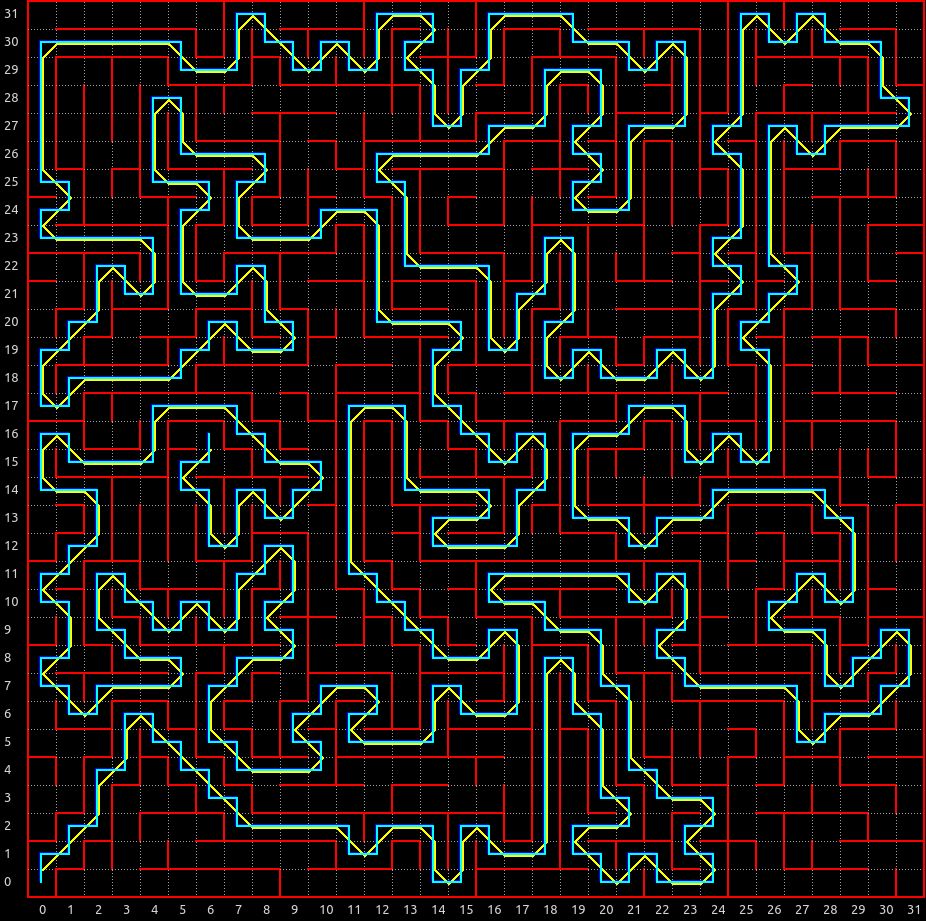
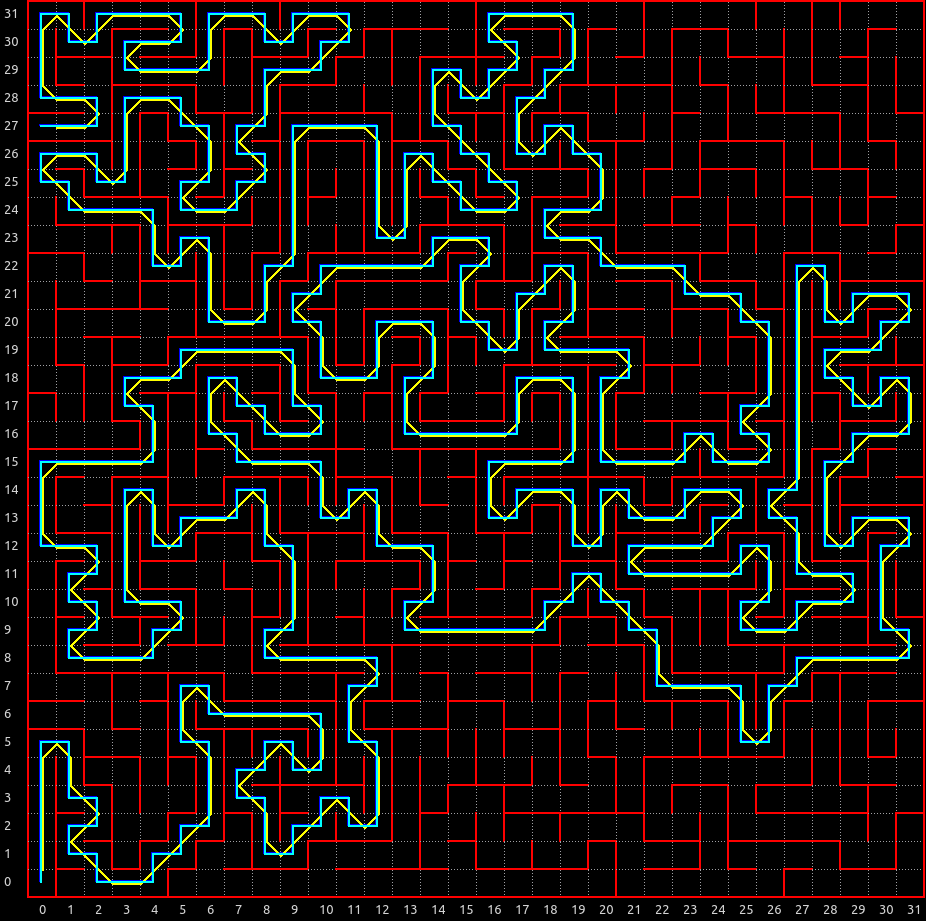
update

Changed region(s): [[0.0302, 0.0, 0.9978, 0.9729], [0.8164, 0.8817, 0.9978, 0.9729], [0.0302, 0.304, 0.0605, 0.3344]]

diff --git a/content/post/2020-03-23-maze-generator.md b/content/post/2020-03-23-maze-generator.md
@@ -14,24 +14,42 @@ draft: true
 こんにちは．けりです．
 
 マイクロマウスを作るにあたって，
-普段は迷路探索のことばかり考えていますが，
-ふと迷路づくりをやってみました．
+普段は迷路を解くことばかり考えていますが，
+ふと迷路づくりについて考えてみました．
 
-しかも，迷路を自動で生成する方法を試してみました．
+しかも，ランダムウォークによる迷路の自動生成を試してみました．
+
+果たしてマイクロマウスっぽい迷路はできるのでしょうか．
 
 <!--more-->
+
+## 迷路生成アルゴリズム
+
+実は，迷路の自動生成アルゴリズムは代表的なものがいくつか存在します．
+
+今回は以下のアルゴリズムを用いて迷路の自動生成を試しました．
+
+1. 棒倒し法
+2. 穴掘り法
+3. 穴掘り法の独自拡張
 
 ## 棒倒し法
 
 迷路上のすべての柱から無作為に棒を倒すように壁を立てる方法によって迷路を作ることができます．
 
-棒を倒すとき既に壁が有る場合は別のところに倒します．
+とても簡単なアルゴリズムですが，
+すべての柱に少なくともひとつの壁が隣接しているようなマイクロマウス規定に則った迷路が作成できます．
+
+なお，棒を倒すとき既に壁が有る場合は別のところに倒します．
 
 ### 自動生成された迷路
 
-次のような迷路が自動生成されました．
+棒倒し法によって次のような迷路が自動生成されました．
 
-斜めありなしの歩数最短(マゼンタ・青)とスラロームコストと台形加速を考慮した斜めありなしの時間最短(黄色・シアン)を表示しています．
+乱数なので，実行するたびに全く違う迷路が生成されます．
+
+何通りか生成して，
+複数のルートが現れるものを選びました．
 
 ![迷路](poll_maze_1.png)
 
@@ -39,22 +57,53 @@ draft: true
 
 ![迷路](poll_maze_3.png)
 
-### 所感
+### ゴール区画の選択
 
-あまり複雑な最短経路はできず，だいたいはほぼ直線の経路のみです．
+今回の迷路では，
+ゴール区画は
+スタート区画から行き得る最も遠い区画に設定しました．
 
-### 難点
+具体的には，スタート区画からステップマップを展開した際に一番ステップが大きくなる区画です．
 
-## 深さ優先探索ランダムウォーク
+今回は，簡単のためゴールは1マスです．
+
+### 最短経路の種類
+
+区画および壁ベースの歩数最短と，スラロームと台形加速を考慮した斜めありなしの時間最短の経路を表示しています．
+
+| 色       | アルゴリズム                                     |
+| -------- | ------------------------------------------------ |
+| 青色     | 区画ベースの歩数最短                             |
+| マゼンタ | 壁ベースの歩数最短                               |
+| 黄色     | スラロームと台形加速を考慮した時間最短(斜めあり) |
+| シアン   | スラロームと台形加速を考慮した時間最短(斜めなし) |
+
+### 迷路の考察
+
+あまり複雑な最短経路はできず，だいたい単純な最短経路のみです．
+
+また，封鎖されている区画が多く目立ちます．
+運が悪いとスタート区画付近が封鎖されて，つまらない迷路になってしまいます．
+
+このアルゴリズムではあまりいい迷路はできそうにありません．
+
+## 穴掘り法
+
+次に，深さ優先探索の考え方を用いたランダムウォークによる迷路生成アルゴリズムを試しました．
 
 予め迷路内のすべての壁を立てた状態にして，
-スタートから深さ優先探索で壁を消して進んでいく方法に寄って迷路を作成することができます．
+スタートから壁を消しながらランダムウォークで進んでいく方法です．
 
+具体的には，
 先に進む際に現在位置をスタックに保管し，
 周囲が既知区画になったらスタックを辿って未知区画に隣接したところまで戻ります．
 
 この迷路の特徴として，閉鎖空間がなくすべてが繋がった迷路となるメリットがあります．  
 つまり，迷路上のすべての区画に到達可能となります．
+
+ただし，スタートを根とした木構造になっているので，適当な2点間の経路が必ず一意になるという特徴があります．
+
+マイクロマウスでは複数のルートからマシンにあったルートを選択するところもおもしろいところなので，それができなくなってしまうのはイマイチです．
 
 ### 自動生成された迷路
 
@@ -66,7 +115,7 @@ draft: true
 
 ![迷路](dfs_maze_3.png)
 
-### 所感
+### 迷路の考察
 
 迷路全体を通るスパルタ経路ができがちです．
 
@@ -74,7 +123,7 @@ draft: true
 
 まるで中部地区大会のようですね．
 
-## 深さ優先探索ランダムウォーク
+## 深さ優先探索ランダムウォークの独自拡張
 
 ![迷路](mydfs_maze_1.png)
 
@@ -93,3 +142,8 @@ draft: true
 今まで競技で出てきた経路は十分短い経路であったことがわかります．
 
 今後はもっと長い経路が出るのでしょうか...
+
+## 参考文献
+
+- http://www5d.biglobe.ne.jp/stssk/maze/make.html
+- https://en.wikipedia.org/wiki/Maze_generation_algorithm
